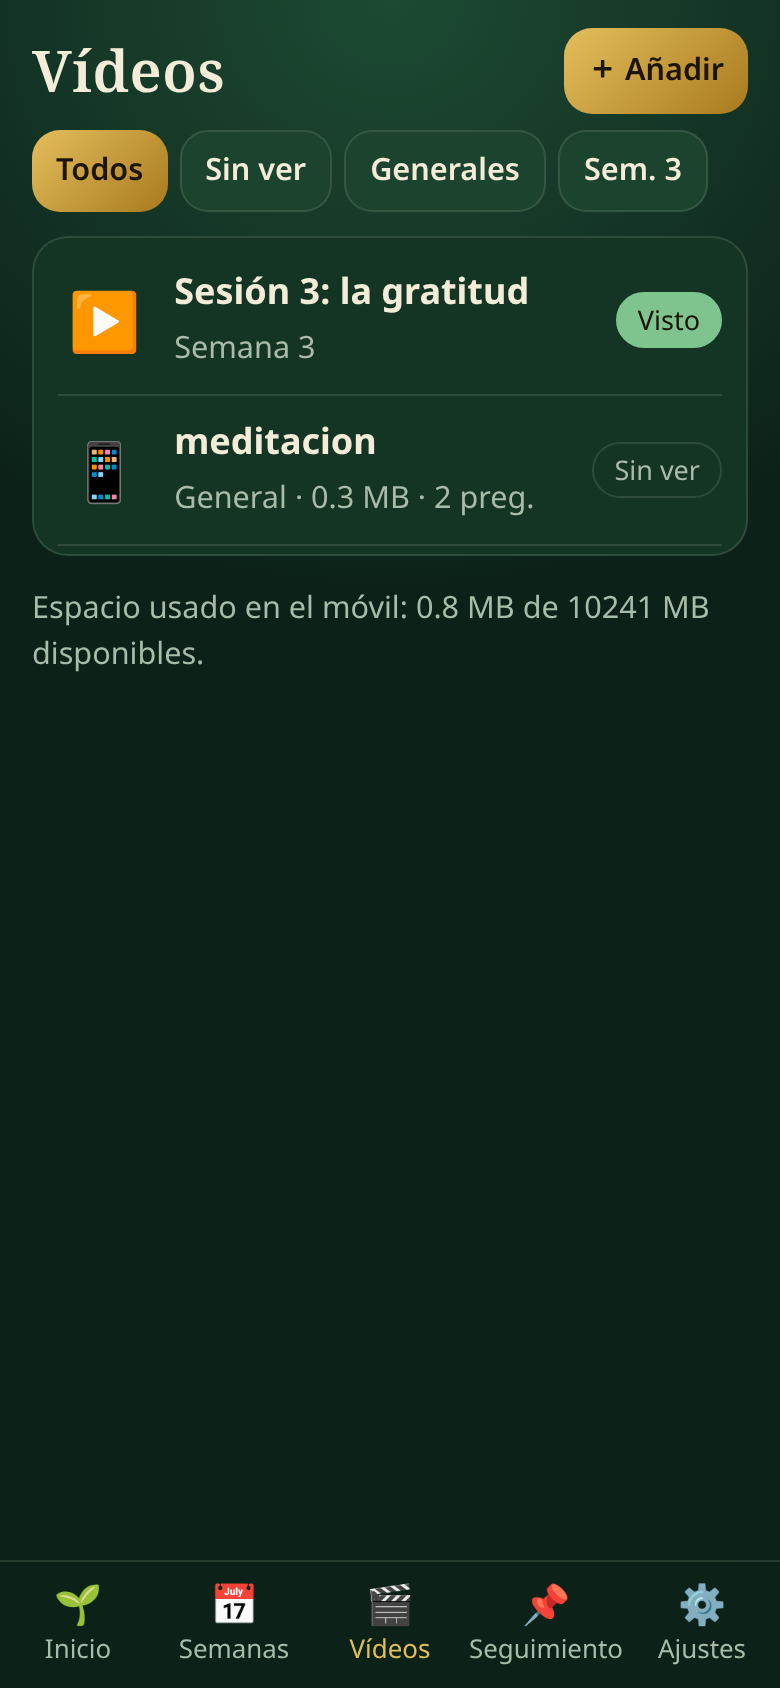
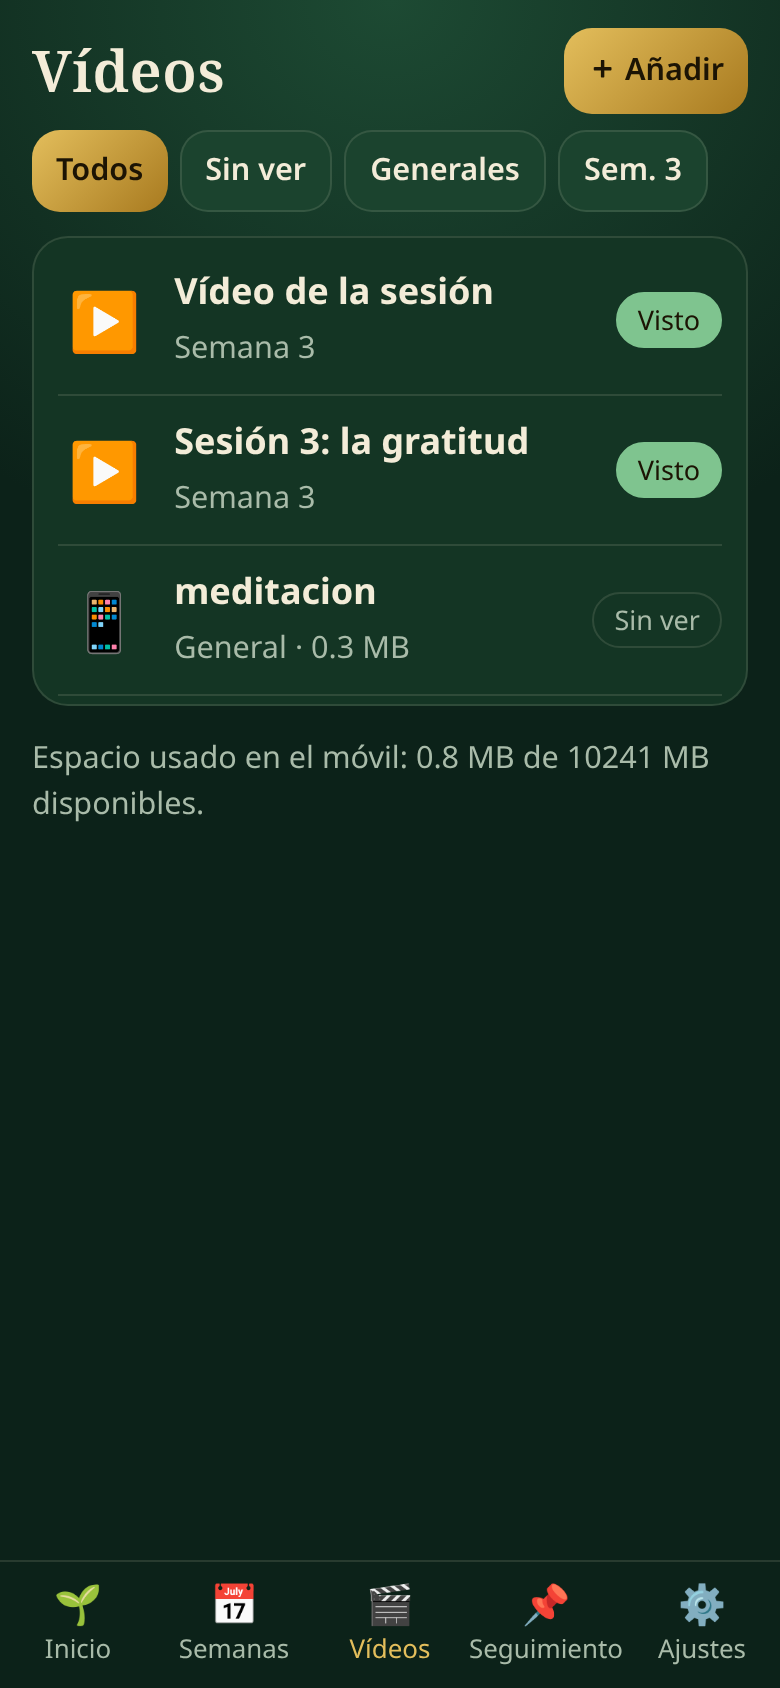
Añadir vídeo en sesiones y semanas; quitar 'Sacar preguntas' y clave OpenAI de la UI; SW v2

diff --git a/app.js b/app.js
@@ -76,10 +76,11 @@
 
   // ---------- Router ----------
   const tabs = [['#/', '🌱', 'Inicio', ['']], ['#/semanas', '📅', 'Semanas', ['semanas', 'semana', 'sesion', 'releer']], ['#/videos', '🎬', 'Vídeos', ['videos', 'video']], ['#/seguimiento', '📌', 'Seguimiento', ['seguimiento']], ['#/ajustes', '⚙', 'Ajustes', ['ajustes']]];
-  let objURL = null;
+  let objURL = null, objURLs = [];
   function route() {
     stopDictation(); closeSheet(); const A = $('#app'); A.oninput = A.onchange = A.onclick = null;
     if (objURL) { URL.revokeObjectURL(objURL); objURL = null; }
+    objURLs.forEach((u) => URL.revokeObjectURL(u)); objURLs = [];
     document.body.classList.toggle('big', !!settings.big);
     const h = location.hash || '#/'; const [, name = '', a1, a2] = h.split('/');
     if (!data) return viewSetup();
@@ -158,7 +159,7 @@
       <details class="card"><summary>🗓 Días con actividad ${w.days ? '(personalizado)' : '(patrón general)'}</summary>
         <div class="days7" style="margin-top:10px">${WD.map((d) => `<label><input type="checkbox" data-wd="${d}" ${set.includes(d) ? 'checked' : ''}>${WDL[d]}</label>`).join('')}</div>
         ${w.days ? '<button class="btn sm block" id="resetdays" style="margin-top:8px">Usar el patrón general</button>' : ''}</details>
-      <div class="row" style="margin-top:16px"><h2 class="grow" style="margin:0">Vídeos</h2><button class="btn sm" id="addv">＋ Añadir vídeo</button></div>
+      <h2 style="margin-top:16px">Vídeos</h2><button class="btn block pri addvid" id="addv" style="margin-bottom:10px">🎬 Añadir vídeo</button>
       ${vids.length ? `<div class="card" style="padding:4px 12px">${vids.map(vidRow).join('')}</div>` : '<p class="muted small">Sin vídeos en esta semana.</p>'}
       <div class="card"><h3>Notas de la semana</h3><textarea id="note" placeholder="Ideas, aprendizajes, intenciones…">${esc(w.note)}</textarea>
         <div class="qtools"><button class="btn sm" data-a="mic">🎤 Dictar</button><button class="btn sm" data-a="fu">📌 Seguimiento</button><span class="saved"></span></div></div>
@@ -174,7 +175,7 @@
     };
     $('#app').querySelectorAll('[data-wd]').forEach((cb) => (cb.onchange = () => { w.days = [...$('#app').querySelectorAll('[data-wd]:checked')].map((x) => +x.dataset.wd); saveData(); viewWeek(n); $('details.card').open = true; }));
     if ($('#resetdays')) $('#resetdays').onclick = () => { w.days = null; saveData(); viewWeek(n); };
-    $('#addv').onclick = () => addVideo(n);
+    $('#addv').onclick = () => addVideo(n, null, () => viewWeek(n));
   }
 
   let tmr;
@@ -204,6 +205,7 @@
   function entryBind(e, opt) {
     autosave((ta) => {
       if (ta.id === 'note') e.note = ta.value; else if (ta.id === 'title') e.title = ta.value;
+      else if (ta.dataset.vf) { const v = data.videos.find((x) => x.id === ta.closest('[data-vid]').dataset.vid); if (v) v[ta.dataset.vf] = ta.value; }
       else { const c = ta.closest('[data-id]'); const q = c && e.questions.find((x) => x.id === c.dataset.id); if (q) q.a = ta.value; }
     }, opt.after);
     autoGrow();
@@ -227,13 +229,19 @@
   function viewSession(n, o) {
     const e = sesObj(n, o), fus = data.follow.filter((f) => f.src?.w === n && f.src?.o === o);
     const rer = () => viewSession(n, o);
+    const sv = data.videos.filter((v) => v.week === n && v.o === o);
     $('#app').innerHTML = `<div class="top"><a class="btn sm ghost" href="#/semana/${n}" aria-label="Volver">‹</a><h1>Semana ${n}</h1></div>
       <div class="muted small" style="margin-bottom:8px">${esc(fmtDate(dateOf(n, o)))} · <span class="pill ${status(e)}" id="stp">${ST[status(e)]}</span></div>
       <input type="text" id="title" placeholder="Título de la sesión (opcional)" value="${esc(e.title)}" style="font-family:var(--serif);font-size:1.1em">
-      ${entryHtml(e, { audio: true, noteTitle: 'Notas de la sesión' })}
+      <button class="btn block pri addvid" id="addvs" style="margin:12px 0">🎬 Añadir vídeo</button>
+      ${sv.length ? `<div id="svids">${sv.map(vidInline).join('')}</div>` : ''}
+      ${entryHtml(e, { noteTitle: 'Notas de la sesión' })}
       ${fus.length ? `<h2>Seguimiento</h2>${fus.map(fuCard).join('')}` : ''}
       <button class="btn block ${e.done ? '' : 'pri'}" id="done">${e.done ? '✓ Sesión hecha · desmarcar' : '✓ Marcar sesión como hecha'}</button>`;
-    entryBind(e, { src: { w: n, o, label: sesLabel(n, o) }, rerender: rer, after: () => { const s = status(e), p = $('#stp'); if (p) { p.className = 'pill ' + s; p.textContent = ST[s]; } } });
+    entryBind(e, { src: { w: n, o, label: sesLabel(n, o) }, rerender: rer, after: () => { const s = status(e), p = $('#stp'); if (p) { p.className = 'pill ' + s; p.textContent = ST[s]; } },
+      click: (b) => { const v = data.videos.find((x) => x.id === b.closest('[data-vid]')?.dataset.vid); if (v && b.dataset.a === 'vwt') { v.watched = !v.watched; saveData(); rer(); } } });
+    $('#addvs').onclick = () => addVideo(n, o, rer);
+    loadInline(sv);
     $('#done').onclick = () => { e.done = !e.done; saveData(); if (e.done) toast('Sesión hecha. ¡Bien! 🌱'); rer(); };
   }
   function autoGrow() { document.querySelectorAll('#app textarea').forEach((t) => { const f = () => { t.style.height = 'auto'; t.style.height = Math.max(120, t.scrollHeight + 4) + 'px'; }; t.addEventListener('input', f); f(); }); }
@@ -260,6 +268,26 @@
   const vIcon = (v) => (v.kind === 'file' ? '📱' : { youtube: '▶', vimeo: '🎞', drive: '📁', direct: '🎬', link: '🔗' }[parseUrl(v.url).type]);
   const vidRow = (v) => `<a class="vid" href="#/video/${v.id}" style="padding:10px 0;border-bottom:1px solid var(--line)"><span class="ic">${vIcon(v)}</span><span class="grow"><b>${esc(v.title || 'Vídeo sin título')}</b><br><span class="small muted">${v.week ? 'Semana ' + v.week : 'General'}${v.kind === 'file' ? ' · ' + mb(v.size) : ''}${v.questions?.length ? ' · ' + v.questions.length + ' preg.' : ''}</span></span><span class="pill ${v.watched ? 'completed' : ''}">${v.watched ? 'Visto' : 'Sin ver'}</span></a>`;
 
+  function playerOf(v, plId) {
+    const p = v.kind === 'url' ? parseUrl(v.url) : { type: 'file' };
+    return p.embed ? `<div class="player"><iframe src="${esc(p.embed)}" allow="autoplay; encrypted-media; picture-in-picture; fullscreen" allowfullscreen referrerpolicy="strict-origin-when-cross-origin" title="${esc(v.title)}"></iframe></div>`
+      : p.type === 'direct' ? `<div class="player"><video controls playsinline preload="metadata" src="${esc(v.url)}"></video></div>`
+      : p.type === 'file' ? `<div class="player" id="${plId}"><p class="muted" style="padding:20px">Cargando vídeo…</p></div>`
+      : `<a class="btn sm block" href="${esc(v.url)}" target="_blank" rel="noopener">↗ Abrir enlace</a>`;
+  }
+  const vidInline = (v) => `<div class="card vinl" data-vid="${v.id}">${playerOf(v, 'pl-' + v.id)}
+      <input type="text" data-vf="title" placeholder="Título del vídeo" value="${esc(v.title)}" style="margin-top:8px">
+      <textarea data-vf="note" placeholder="Notas del vídeo…" style="margin-top:8px">${esc(v.note || '')}</textarea>
+      <div class="qtools"><button class="btn sm ${v.watched ? '' : 'pri'}" data-a="vwt">${v.watched ? '✓ Visto' : 'Marcar visto'}</button><a class="btn sm ghost" href="#/video/${v.id}">Abrir ›</a><span class="saved"></span></div></div>`;
+  function loadInline(list) {
+    const h = location.hash;
+    list.filter((v) => v.kind === 'file').forEach((v) => getBlob(v.id).then((b) => {
+      const pl = document.getElementById('pl-' + v.id); if (!pl || location.hash !== h) return;
+      if (!b) { pl.innerHTML = '<p class="muted" style="padding:20px">El archivo no está en este móvil.</p>'; return; }
+      const u = URL.createObjectURL(b); objURLs.push(u); pl.innerHTML = `<video controls playsinline preload="metadata" src="${u}"></video>`;
+    }).catch(() => {}));
+  }
+
   function viewVideos() {
     let f = viewVideos.f || 'all';
     const draw = () => {
@@ -280,8 +308,8 @@
     el.textContent = `Espacio usado en el móvil: ${mb(e.usage || 0)} de ${mb(e.quota || 0)} disponibles${p ? ' · almacenamiento persistente ✓' : ''}.`;
   }
 
-  function addVideo(week) {
-    const el = sheet(`<h2>Añadir vídeo</h2>
+  function addVideo(week, ses, done) {
+    const el = sheet(`<h2>🎬 Añadir vídeo</h2>${ses != null ? `<p class="small muted">Se añade a esta sesión (${esc(sesLabel(week, ses))}).</p>` : ''}
       <div class="filters"><button class="btn sm pri" data-k="url">🔗 Enlace</button><button class="btn sm" data-k="file">📱 Archivo del móvil</button></div>
       <div id="kurl"><label class="f" for="vu">Enlace (YouTube, Vimeo, Drive o cualquier web)</label><input type="text" id="vu" inputmode="url" placeholder="https://…"></div>
       <div id="kfile" hidden><input type="file" id="vf" accept="video/*,audio/*"><p class="small muted" id="vfi">El vídeo se guarda solo en este móvil (IndexedDB). Ocupa espacio y no se incluye en la copia JSON.</p></div>
@@ -299,7 +327,7 @@
     $('#cn', el).onclick = closeSheet;
     $('#ok', el).onclick = async () => {
       const wk = parseInt($('#vw', el).value, 10) || null, title = $('#vt', el).value.trim();
-      const v = { ...blankE(), id: uid(), week: wk, title, kind, url: '', size: 0, mime: '', name: '', watched: false, added: Date.now() };
+      const v = { ...blankE(), id: uid(), week: wk, o: ses != null && wk === week ? ses : null, title, kind, url: '', size: 0, mime: '', name: '', watched: false, added: Date.now() };
       delete v.done;
       if (kind === 'url') { let u = $('#vu', el).value.trim(); if (!u) return toast('Pega el enlace'); if (!/^https?:\/\//i.test(u)) u = 'https://' + u; v.url = u; if (!v.title) v.title = u.replace(/^https?:\/\/(www\.)?/, '').slice(0, 60); }
       else {
@@ -309,7 +337,7 @@
         await persist();
         try { await putBlob(v.id, f); } catch (e) { $('#ok', el).disabled = false; $('#ok', el).textContent = 'Guardar'; return toast('No se pudo guardar: falta espacio en el móvil', 4000); }
       }
-      data.videos.push(v); saveData(); closeSheet(); toast('Vídeo añadido'); location.hash = '#/video/' + v.id;
+      data.videos.push(v); saveData(); closeSheet(); toast('Vídeo añadido'); if (done) done(); else location.hash = '#/video/' + v.id;
     };
   }
 
@@ -327,8 +355,7 @@
       <input type="text" id="title" placeholder="Título" value="${esc(v.title)}" style="font-family:var(--serif);font-size:1.1em;margin-top:10px">
       <div class="row" style="margin-top:8px"><select id="vw" class="grow"><option value="">General</option>${Array.from({ length: T() }, (_, i) => `<option value="${i + 1}" ${i + 1 === v.week ? 'selected' : ''}>Semana ${i + 1}</option>`).join('')}</select>
         <button class="btn ${v.watched ? '' : 'pri'}" id="watched">${v.watched ? '✓ Visto' : 'Marcar visto'}</button></div>
-      ${v.kind === 'file' && v.size <= 25 * 1048576 ? '<button class="btn block" id="fromvid" style="margin-top:10px">🎧 Sacar preguntas de este vídeo</button>' : ''}
-      ${entryHtml(v, { audio: true, noteTitle: 'Notas del vídeo' })}
+      ${entryHtml(v, { noteTitle: 'Notas del vídeo' })}
       <button class="btn block danger ghost" id="delv">🗑 Borrar vídeo</button>`;
     entryBind(v, { src: { v: id, w: v.week, label: 'Vídeo: ' + (v.title || '').slice(0, 40) }, rerender: rer });
     $('#vw').onchange = (e) => { v.week = parseInt(e.target.value, 10) || null; saveData(); toast('Semana cambiada'); };
@@ -546,7 +573,7 @@
 
   // ---------- Ajustes ----------
   function viewSettings() {
-    const k = apiKey(), nFiles = data.videos.filter((v) => v.kind === 'file').length;
+    const nFiles = data.videos.filter((v) => v.kind === 'file').length;
     $('#app').innerHTML = `<h1>Ajustes</h1>
       <div class="card"><h3>Programa</h3><label class="f" for="st">Fecha de inicio (semana 1)</label><input type="date" id="st" value="${esc(data.start)}">
         <label class="f" for="nw">Número de semanas</label><input type="text" inputmode="numeric" id="nw" value="${T()}">
@@ -555,11 +582,6 @@
         <div class="days7">${WD.map((d) => `<label><input type="checkbox" data-pd="${d}" ${data.pattern.includes(d) ? 'checked' : ''}>${WDL[d]}</label>`).join('')}</div>
         <p class="small muted">Cada semana puede cambiarlo en «Días con actividad».</p></div>
       <div class="card"><h3>Lectura</h3><label class="switch"><span>Letra grande</span><input type="checkbox" id="big" ${settings.big ? 'checked' : ''}></label></div>
-      <div class="card"><h3>🔑 Clave de OpenAI</h3><p class="small muted">Solo para «Sacar preguntas del audio/vídeo» (archivos de hasta 25 MB). Se guarda únicamente en este móvil y solo se envía a OpenAI.</p>
-        <input type="password" id="key" placeholder="sk-…" value="${k ? '••••••••' + esc(k.slice(-4)) : ''}" autocomplete="off">
-        <div class="row" style="margin-top:8px"><button class="btn grow pri" id="sk">Guardar clave</button>${k ? '<button class="btn danger" id="dk">Borrar</button>' : ''}</div>
-        <details style="margin-top:10px"><summary class="small">Modelos</summary><label class="f">Transcripción</label><select id="tm">${['gpt-4o-mini-transcribe', 'gpt-4o-transcribe', 'whisper-1'].map((m) => `<option ${m === settings.transcribeModel ? 'selected' : ''}>${m}</option>`).join('')}</select>
-        <label class="f">Extraer preguntas</label><input type="text" id="cm" value="${esc(settings.chatModel)}"></details></div>
       <div class="card"><h3>🔒 Bloqueo</h3><p class="small muted">Pide huella o PIN al abrir la app.</p><button class="btn block" id="lk">${PALock.isEnabled() ? 'Desactivar bloqueo' : 'Activar huella / PIN'}</button></div>
       <div class="card"><h3>🎬 Almacenamiento de vídeos</h3><p class="small muted" id="stor">${nFiles} vídeo${nFiles === 1 ? '' : 's'} guardado${nFiles === 1 ? '' : 's'} en el móvil.</p>
         <button class="btn block" id="pers">Proteger almacenamiento (persistente)</button></div>
@@ -575,10 +597,6 @@
     $('#nw').onchange = (e) => { const v = parseInt(e.target.value, 10); if (!(v >= 1 && v <= 104)) { toast('Entre 1 y 104 semanas'); return viewSettings(); } data.weeks = v; saveData(); toast('Ahora son ' + v + ' semanas'); viewSettings(); };
     $('#app').querySelectorAll('[data-pd]').forEach((cb) => (cb.onchange = () => { data.pattern = [...$('#app').querySelectorAll('[data-pd]:checked')].map((x) => +x.dataset.pd); saveData(); toast('Patrón guardado'); }));
     $('#big').onchange = (e) => { settings.big = e.target.checked; saveSet(); document.body.classList.toggle('big', settings.big); };
-    $('#tm').onchange = (e) => { settings.transcribeModel = e.target.value; saveSet(); };
-    $('#cm').onchange = (e) => { settings.chatModel = e.target.value.trim() || 'gpt-5-mini'; saveSet(); };
-    $('#sk').onclick = () => { const v = $('#key').value.trim(); if (v.startsWith('••')) return toast('La clave ya está guardada'); if (!/^sk-/.test(v)) return toast('La clave empieza por «sk-»'); localStorage.setItem(K.key, v); toast('Clave guardada en este móvil'); viewSettings(); };
-    if ($('#dk')) $('#dk').onclick = () => { localStorage.removeItem(K.key); toast('Clave borrada'); viewSettings(); };
     $('#lk').onclick = () => { PALock.openSettings((m) => { toast(m); viewSettings(); }); };
     $('#pers').onclick = async () => toast((await persist()) ? 'Almacenamiento protegido ✓' : 'El navegador no lo ha concedido (instala la app en la pantalla de inicio)', 3500);
     $('#ej').onclick = () => { download(`programa-abundancia-${isoToday()}.json`, JSON.stringify({ app: 'programa-abundancia', exported: new Date().toISOString(), aviso: 'Los vídeos subidos desde el móvil no se incluyen en esta copia.', data, settings: { big: settings.big } }, null, 2), 'application/json'); if (nFiles) toast('Copia descargada. Recuerda: los vídeos del móvil no van incluidos.', 4000); };

diff --git a/tools/test.js b/tools/test.js
@@ -44,11 +44,17 @@ const OUT = process.env.SHOTS === '0' ? null : '/workspace/app-abundancia/screen
   // open today's session via home
   await p.goto(URL0 + '#/'); await p.click('.today-task'); await p.waitForSelector('#addq');
   await p.click('#addq'); await p.fill('#qt', '¿Qué significa para ti la abundancia?'); await p.click('#ok');
-  await p.evaluate(() => localStorage.setItem('pa-openai-key', 'sk-test'));
-  await p.setInputFiles('#file', { name: 'sesion.m4a', mimeType: 'audio/mp4', buffer: Buffer.from('fake') });
-  await p.waitForSelector('.chk'); await p.click('#ok');
-  ok((await p.$$('[data-id]')).length === 3, '3 questions after audio'); ok(calls.length === 2, 'openai mocked x2');
-  ok((await p.inputValue('#title')) === 'Gratitud que multiplica', 'title from audio');
+  for (const q of ['¿Por qué tres cosas estás agradecido hoy?', 'Escribe una acción concreta.']) { await p.click('#addq'); await p.fill('#qt', q); await p.click('#ok'); }
+  await p.fill('#title', 'Gratitud que multiplica');
+  ok((await p.$$('[data-id]')).length === 3, '3 questions');
+  ok(!(await p.$('#audio')) && !(await p.$('text=Sacar preguntas')), 'no "Sacar preguntas" button');
+  // añadir vídeo en la sesión
+  await p.click('#addvs'); await p.fill('#vu', 'https://youtu.be/dQw4w9WgXcQ'); await p.fill('#vt', 'Vídeo de la sesión'); await p.click('#ok');
+  await p.waitForSelector('.vinl .player iframe'); ok(true, 'session video inline');
+  await p.fill('.vinl [data-vf="note"]', 'Nota del vídeo de sesión'); await p.waitForTimeout(500);
+  await p.click('.vinl [data-a="vwt"]'); await p.waitForSelector('.vinl [data-a="vwt"]:has-text("Visto")');
+  ok(await p.evaluate(() => { const v = JSON.parse(localStorage.getItem('pa-data')).videos[0]; return v.week === 3 && v.o != null && v.watched && v.note.includes('sesión'); }), 'session video saved (week, session, watched, note)');
+  await clean(); if (OUT) await p.screenshot({ path: OUT + 'anadir-video.png' });
   const tas = await p.$$('[data-a="ans"]');
   await tas[0].fill('Libertad para elegir y tiempo con mi familia.');
   await p.click('[data-id]:nth-child(1) [data-a="mic"]'); await p.waitForTimeout(200);
@@ -82,6 +88,7 @@ const OUT = process.env.SHOTS === '0' ? null : '/workspace/app-abundancia/screen
   // videos
   await p.goto(URL0 + '#/semana/3'); await p.click('#addv');
   await p.fill('#vu', 'https://youtu.be/dQw4w9WgXcQ'); await p.fill('#vt', 'Sesión 3: la gratitud'); await p.click('#ok');
+  await p.waitForSelector('.vid >> text=Sesión 3: la gratitud'); ok(true, 'week video listed in week'); await p.click('.vid >> text=Sesión 3: la gratitud');
   await p.waitForSelector('.player iframe');
   ok((await p.getAttribute('.player iframe', 'src')).includes('youtube-nocookie.com/embed/dQw4w9WgXcQ'), 'youtube embedded');
   await p.click('#watched'); await p.fill('#note', 'Repasar el minuto 12.');
@@ -92,12 +99,11 @@ const OUT = process.env.SHOTS === '0' ? null : '/workspace/app-abundancia/screen
   await p.selectOption('#sheet-root #vw', ''); await p.click('#ok'); await p.waitForSelector('#pl video');
   ok(true, 'local video plays from IndexedDB');
   const dbn = await p.evaluate(async () => (await indexedDB.databases()).map((x) => x.name)); ok(dbn.every((n) => n.startsWith('pa-')), 'IDB namespaced ' + dbn);
-  await p.click('#fromvid'); await p.waitForSelector('.chk'); await p.click('#ok');
-  ok((await p.$$('[data-id]')).length === 2 && calls.length === 4, 'questions from local video');
+  ok(!(await p.$('#fromvid')), 'no fromvid button'); ok(calls.length === 0, 'no OpenAI calls');
   await p.goto(URL0 + '#/videos'); await p.waitForSelector('.vid');
   await p.goto(URL0 + '#/'); await p.goto(URL0 + '#/videos'); await p.waitForSelector('.vid'); await p.waitForTimeout(200);
-  ok((await p.$$('.vid')).length === 2, '2 videos listed');
-  await p.click('[data-f="3"]'); ok((await p.$$('.vid')).length === 1, 'filter by week');
+  ok((await p.$$('.vid')).length === 3, '3 videos listed');
+  await p.click('[data-f="3"]'); ok((await p.$$('.vid')).length === 2, 'filter by week');
   await p.click('[data-f="all"]'); await clean(); if (OUT) await p.screenshot({ path: OUT + 'videos.png' });
   // week + home screenshots
   await p.goto(URL0 + '#/semana/3'); await p.waitForSelector('.vid'); await clean(); if (OUT) await p.screenshot({ path: OUT + 'semana.png' });
@@ -113,9 +119,8 @@ const OUT = process.env.SHOTS === '0' ? null : '/workspace/app-abundancia/screen
   await p.goto(URL0 + '#/ajustes');
   const [dl] = await Promise.all([p.waitForEvent('download'), p.click('#ej')]);
   const json = require('fs').readFileSync(await dl.path(), 'utf8'); const J = JSON.parse(json);
-  ok(J.data.follow.length === 2 && J.data.videos.length === 2 && /no se incluyen/.test(J.aviso), 'export json');
-  ok(!json.includes('sk-test'), 'key not in export');
-  const [dl2] = await Promise.all([p.waitForEvent('download'), p.click('#em')]);
+  ok(J.data.follow.length === 2 && J.data.videos.length === 3 && /no se incluyen/.test(J.aviso), 'export json');
+    const [dl2] = await Promise.all([p.waitForEvent('download'), p.click('#em')]);
   const md = require('fs').readFileSync(await dl2.path(), 'utf8'); ok(md.includes('## Seguimiento') && md.includes('youtu.be'), 'export markdown');
   await p.evaluate(() => localStorage.removeItem('pa-data')); await p.reload();
   await p.click('#go'); await p.goto(URL0 + '#/ajustes');

diff --git a/sw.js b/sw.js
@@ -1,5 +1,5 @@
 /* Service worker: red primero (siempre la última versión), caché si no hay conexión. */
-const CACHE = 'pa-cache-v1';
+const CACHE = 'pa-cache-v2';
 const ASSETS = ['./', './index.html', './styles.css', './app.js', './lock.js', './manifest.json',
   './icons/icon-192.png', './icons/icon-512.png', './icons/icon-maskable-512.png', './icons/apple-touch-icon.png'];
 self.addEventListener('install', (e) => { e.waitUntil(caches.open(CACHE).then((c) => c.addAll(ASSETS)).then(() => self.skipWaiting())); });
